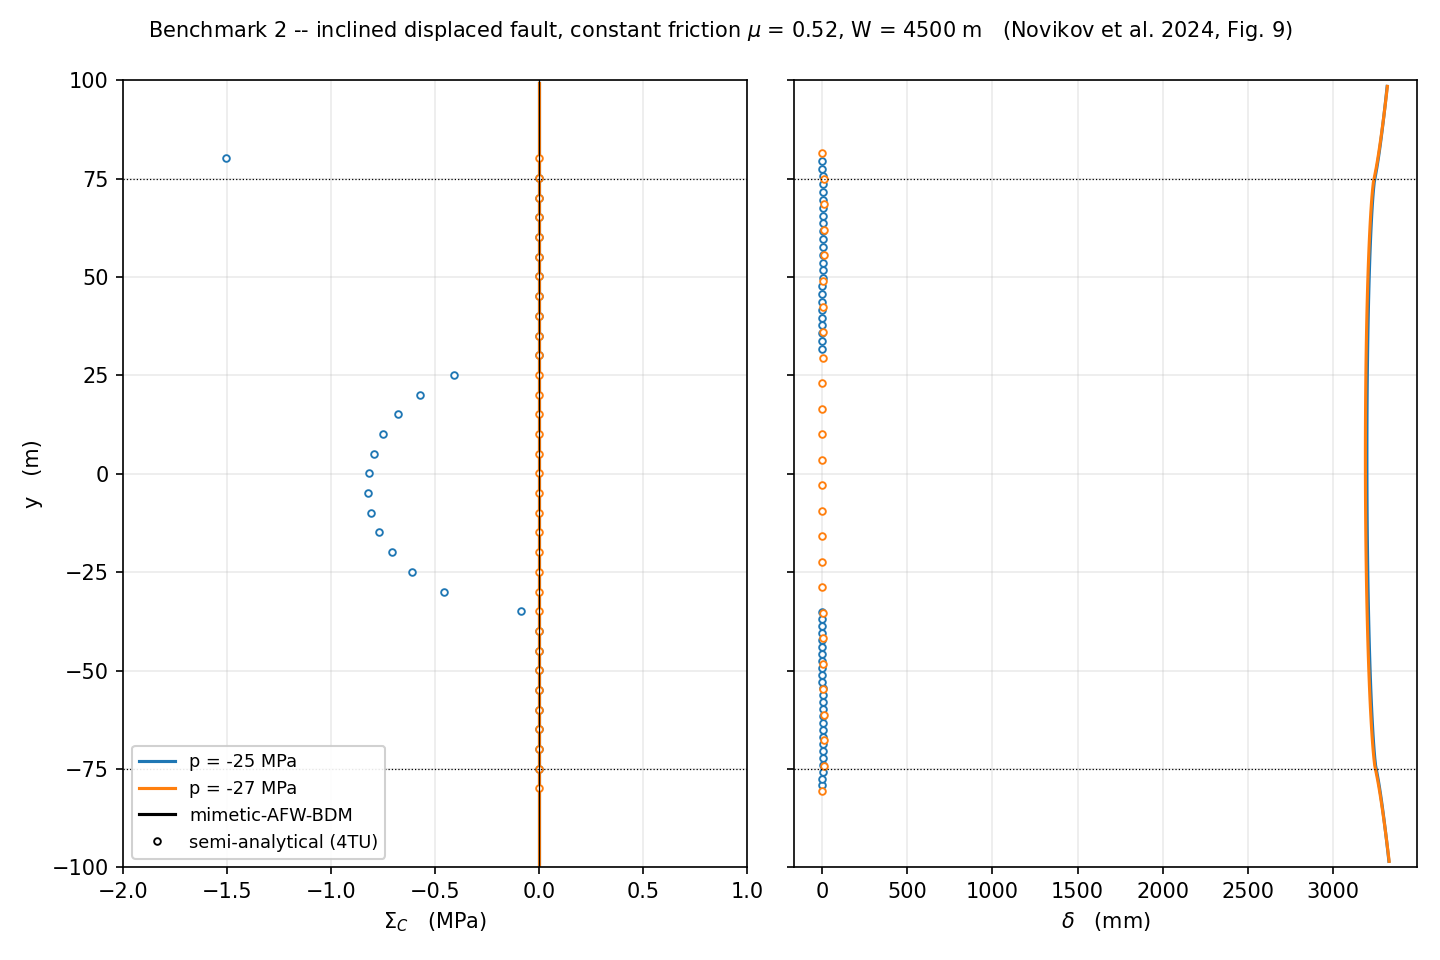
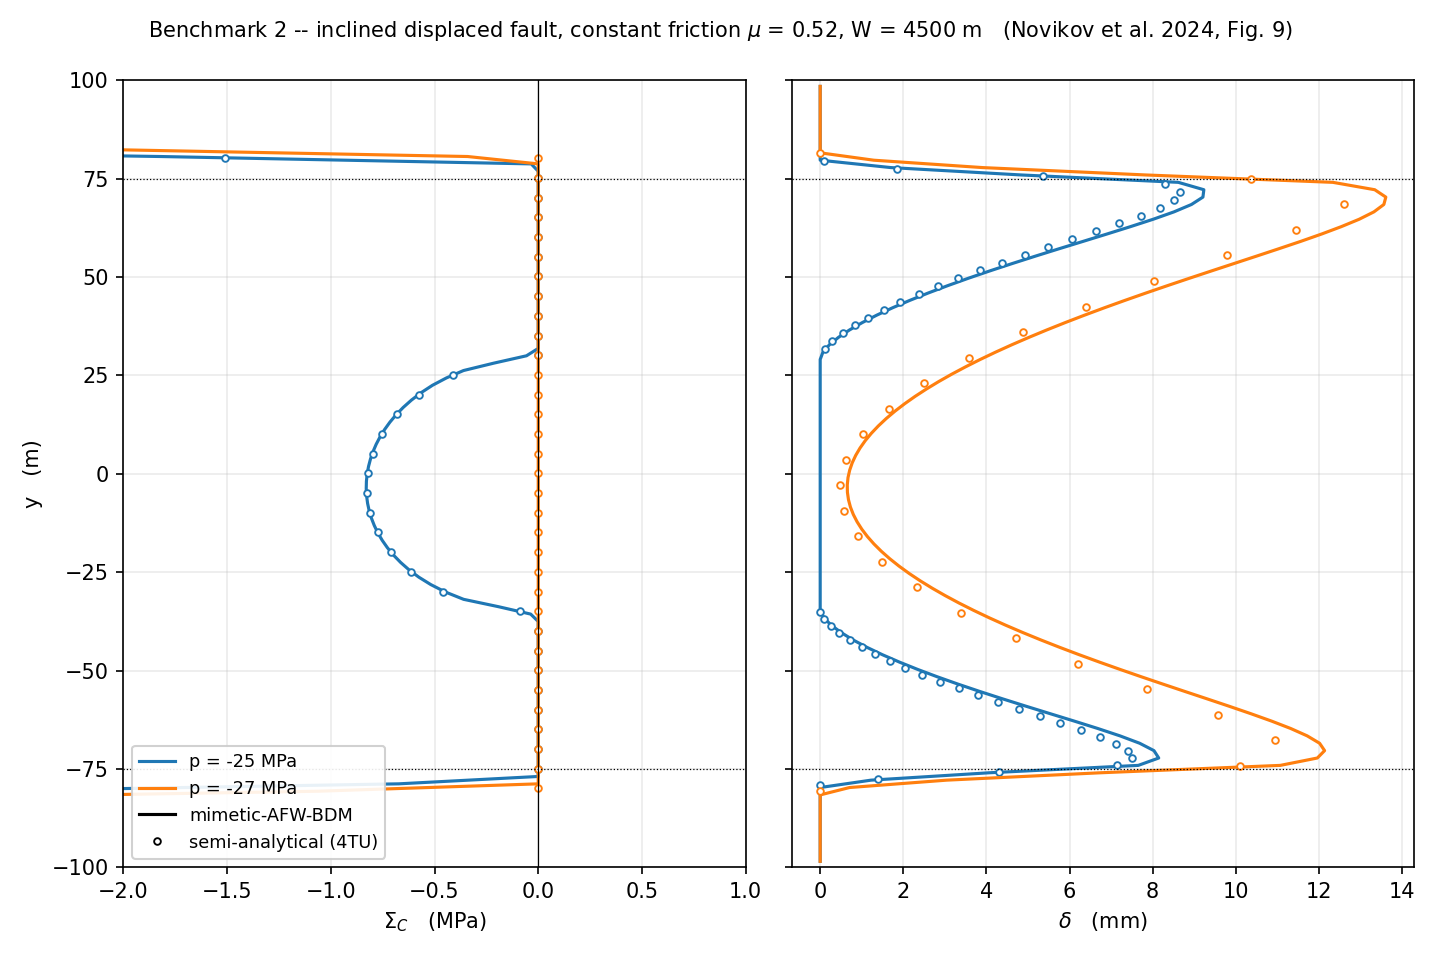
wip: benchmark 2 is fully complete

diff --git a/benchmarks/contact_mechanics/benchmark_2.py b/benchmarks/contact_mechanics/benchmark_2.py
@@ -373,15 +373,20 @@ def insitu_prestress(mesh, fault, parameters: Parameters,
 
 
 def simulate(parameters: Parameters, spacing: float = 2.0,
-             boundary_spacing: float = 100.0, built=None, substeps: int = 1):
+             boundary_spacing: float = 100.0, built=None, substeps: int = 1,
+             warm_from_locked: bool = False):
     """Solve at ``parameters.depletion``; return slip and patch structure.
 
-    ``substeps > 1`` ramps the depletion in equal load steps, warm-starting
-    each contact solve from the previous state.  A single step suffices on
-    the wide domain; the confined ``W = 4500`` m one needs the ramp -- from
-    a zero initial guess at full load, Newton overshoots into a spurious
-    runaway branch (kilometres of shallow fault slipping) even though the
-    locked stress state shows only bounded threshold exceedance.
+    ``warm_from_locked`` starts the contact Newton at the **locked**
+    (unfractured) solution's fault tractions instead of zero.  On the
+    confined ``W = 4500`` m domain the cold start diverges: the first trial
+    has the fault carrying nothing, the projection clips metre-scale
+    excursions, and the iteration exits the physical basin into a spurious
+    whole-fault runaway -- even at levels where the fault is fully stuck.
+    The locked tractions are one direct solve away and sit next to the
+    contact solution (their map residual is just ``r`` times the
+    enforcement-truncation gap), so Newton converges in a handful of steps.
+    ``substeps > 1`` additionally ramps the depletion with warm restarts.
     """
     if built is None:
         mesh, fault, pressure = build(parameters, spacing, boundary_spacing)
@@ -404,8 +409,22 @@ def simulate(parameters: Parameters, spacing: float = 2.0,
         driver.prestress = driver.expand_to_points(
             insitu_prestress(mesh, fault, stage, pressure)
         )
+        factory = mechanics_factory(mesh, stage, pressure, cache)
+        if state is None and warm_from_locked:
+            from mimetika.contact import ContactState
+            from mimetika.solver.saddle import solve_saddle
+
+            problem0, matrix0, rhs0 = factory(None)
+            sol0 = problem0.split(solve_saddle(
+                matrix0, rhs0, problem0.block_sizes, method="direct"))
+            xstar = driver.tractions(sol0["stress"])
+            mult = (driver.moment_operator() @ xstar.ravel()).reshape(
+                len(driver.facets), driver.ndf)
+            s0 = driver.initial_state()
+            state = ContactState(multiplier=mult, internal=s0.internal,
+                                 jump=s0.jump)
         state = driver.solve_step(
-            mechanics_factory(mesh, stage, pressure, cache),
+            factory,
             state=state, solver="newton", reuse=cache.get("condensed"),
         )
         if state.condensed is not None:
@@ -587,7 +606,7 @@ def main() -> None:
         for level in arguments.levels:
             stage = replace(parameters, depletion=level * 1e6)
             res = simulate(stage, spacing=arguments.spacing, built=built,
-                           substeps=5 if width <= 4500.0 else 1)
+                           warm_from_locked=width <= 4500.0)
             built = res["built"]
             results[level * 1e6] = res
             state = res["state"]
